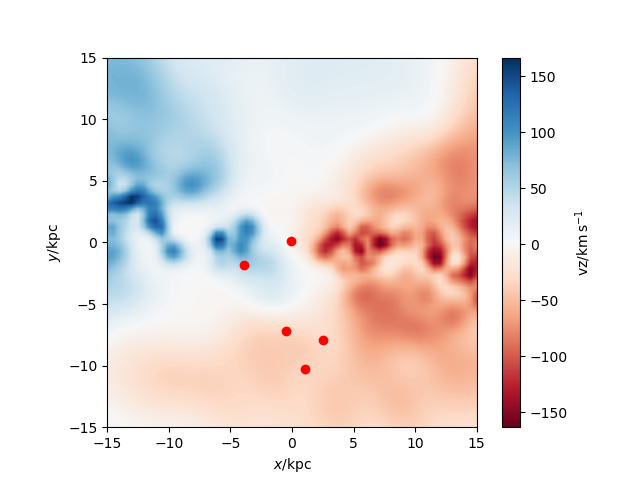
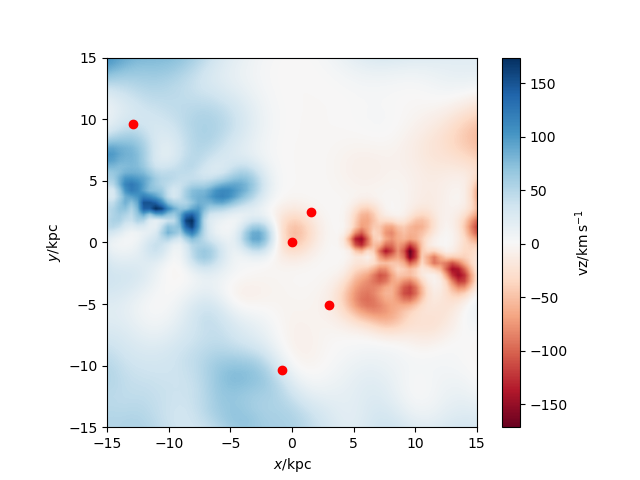
gas and stellar velocity

diff --git a/r320/galaxy320_StelVelR.py b/r320/galaxy320_StelVelR.py
@@ -11,7 +11,7 @@ filename = '/mnt/data0/jillian/gguaman/r320/r320.007779.tipsy'
 redshift=0.01
 image_width=20
 
-stellar_map, stellar_pa, ax = plot_manga_map(filename, redshift, "star", weights="mass", image_width=image_width, orientation="sideon", cmap='PuOr', vmin=-70, vmax=70)
+stellar_map, stellar_pa, ax = plot_manga_map(filename, redshift, "star", weights="mass", image_width=image_width, orientation="sideon", cmap='PuOr', vmin=-80, vmax=80)
 
 #plt.show()
 plt.savefig("galaxy320_StelVelR.png")

diff --git a/r109/galaxy109_GasVelGG.py b/r109/galaxy109_GasVelGG.py
@@ -38,5 +38,5 @@ for i in range(len(BH)):
     BHz=BHposition[[i],2]
     plt.plot(BHx,BHy, 'ro')
     
-plt.show()
-#plt.savefig("galaxy109_GasVelGG.png")
+#plt.show()
+plt.savefig("galaxy109_GasVelGG.png")
